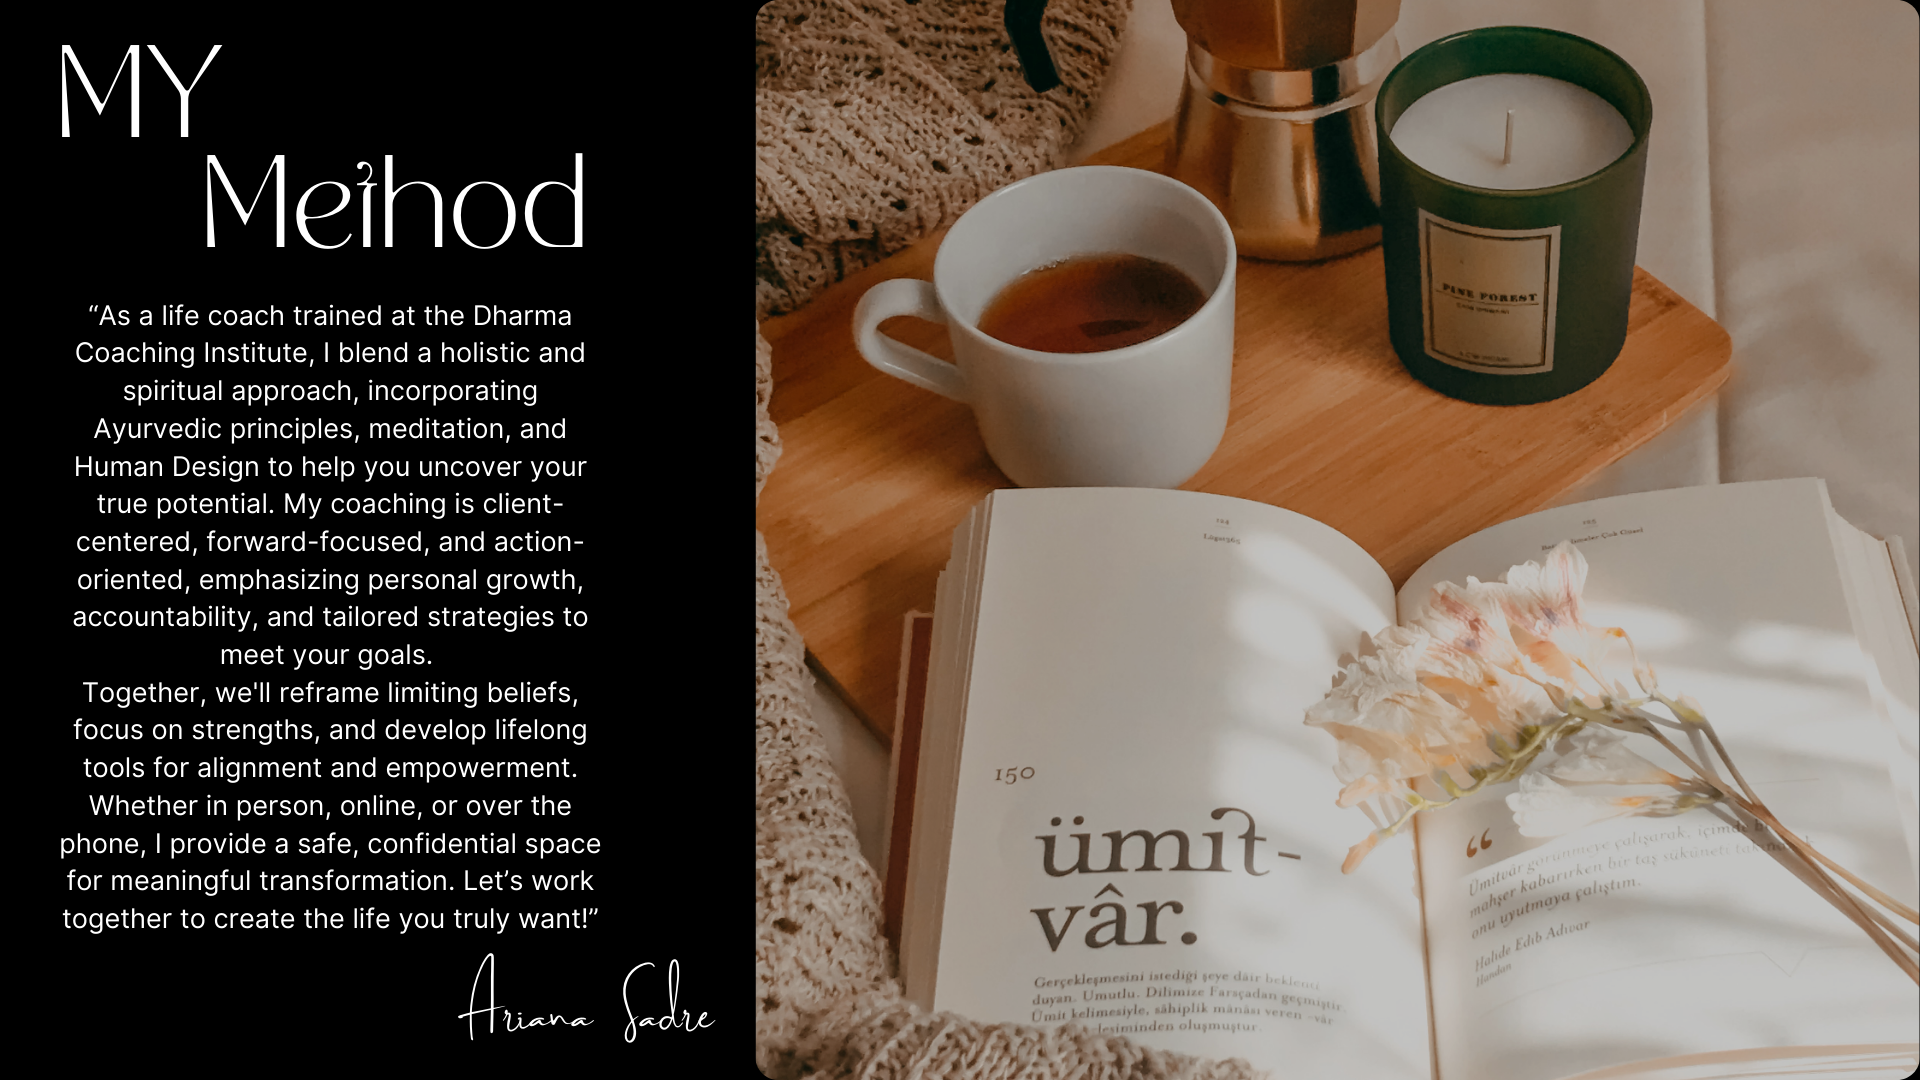
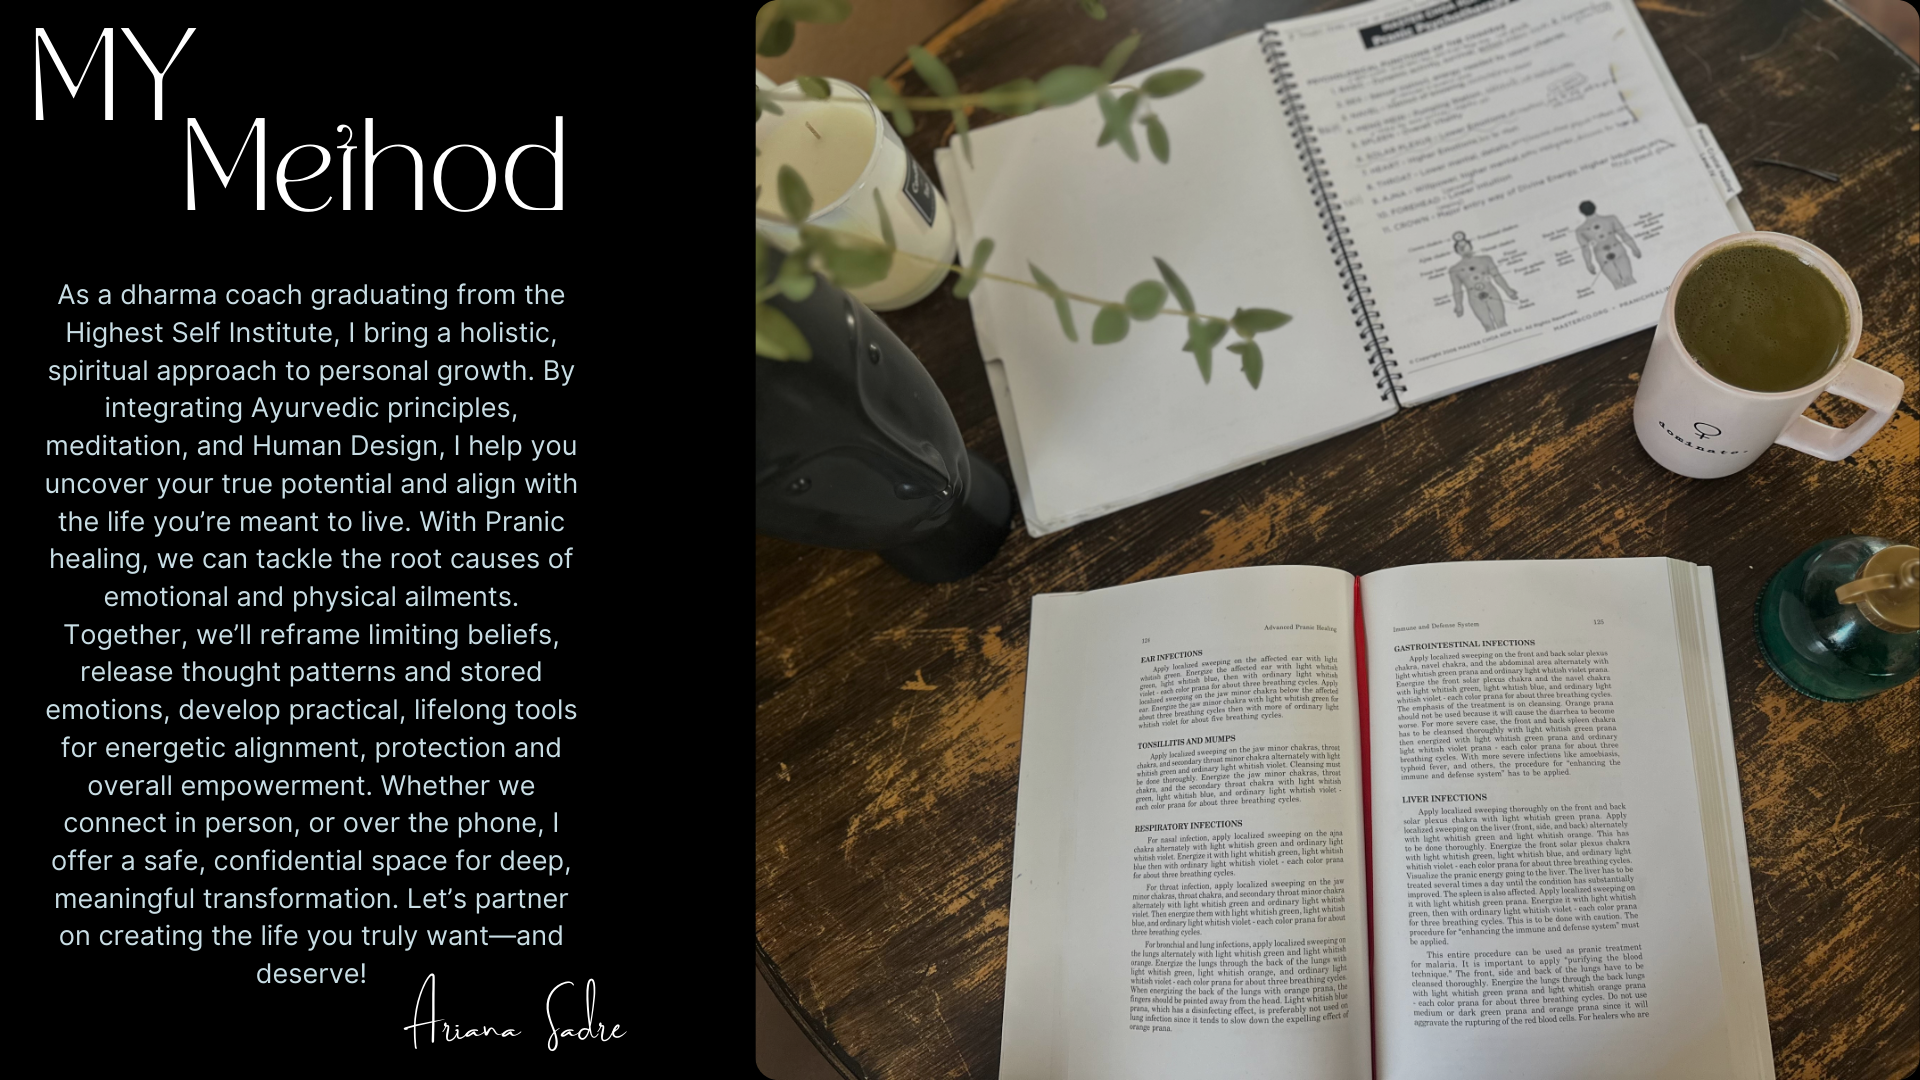
changed the ui final changes

diff --git a/src/app/page.tsx b/src/app/page.tsx
@@ -106,7 +106,7 @@ import { useRouter } from 'next/navigation';
 export default function Home() {
   const router = useRouter();
   return (
-    <div className="overflow-x-hidden bg-[#dbdf9d]"
+    <div className="overflow-x-hidden bg-white"
     // style={{
     //   background: "linear-gradient(180deg, var(--black), var(--slate-900))",
     // }}
@@ -118,80 +118,48 @@ export default function Home() {
 
         <div 
         
-          className="flex justify-center lg:justify-between"
-          style={{
-            background: "linear-gradient(180deg, var(--black), var(--slate-900))",
-          }}
+          className="flex justify-center lg:justify-center bg-black"
+          // style={{
+          //   background: "linear-gradient(180deg, var(--black), var(--slate-900))",
+          // }}
           
         >
-          <div className="lg:ml-20 flex justify-center">
-              <img src='/images/logoAriana.avif' className="w-[6rem] py-2" alt='logo'/>
-            </div>
+       
           
           <div className="navbar-center hidden playfair-display-regular text-slate-100 mt-8 lg:flex">
-            <ul className="menu menu-horizontal flex mr-10 text-lg font-extralight px-1">
+            <ul className="menu menu-horizontal flex gap-10 text-lg font-extralight px-1">
               <li><a href="#about" 
               // onClick={() => navigateTo('about')} 
-              className="block py-2 px-4 hover:rounded-sm hover:duration-100 hover:bg-slate-900">About me</a></li>
+              className="block py-2 px-4 hover:rounded-sm hover:duration-100 font-sans hover:bg-slate-900">About Ariana</a></li>
               <li><a href="#services" 
               // onClick={() => navigateTo('services')} 
-              className="block py-2 px-4 hover:rounded-sm hover:duration-100 hover:bg-slate-900">Services</a></li>
+              className="block py-2 px-4 hover:rounded-sm hover:duration-100 font-sans hover:bg-slate-900">My Method</a></li>
+                
+         
+            </ul>
+            
+          </div>
+          <div className="flex mx-10 justify-center">
+              <img src='/images/logoAriana.avif' className="w-[8rem] " alt='logo'/>
+            </div>
+            <div className="navbar-center hidden playfair-display-regular text-slate-100 mt-8 lg:flex">
+            <ul className="menu menu-horizontal flex gap-10 text-lg font-extralight px-1">
+              
                 <li><a href="#lifecoaching" 
               // onClick={() => navigateTo('services')} 
-              className="block py-2 px-4 hover:rounded-sm hover:duration-100 hover:bg-slate-900">Life Coaching</a></li>
-              <li><a href="#testimonials" 
-              // onClick={() => navigateTo('testimonials')} 
-              className="block py-2 px-4 hover:rounded-sm hover:duration-100 hover:bg-slate-900">Testimonials</a></li>
+              className="block py-2 px-4 hover:rounded-sm hover:duration-100 font-sans hover:bg-slate-900">Offerings</a></li>
+
               <li><a 
                 href="https://mail.google.com/mail/?view=cm&fs=1&to=arianasadre@gmail.com"
                 target="_blank"
                 rel="noopener noreferrer"
               // onClick={() => navigateTo('testimonials')} 
-              className="block py-2 px-4 hover:rounded-sm hover:duration-100 hover:bg-slate-900">Contact</a></li>
+              className="block py-2 px-4 hover:rounded-sm hover:duration-100 font-sans hover:bg-slate-900">Contact</a></li>
             </ul>
+            
           </div>
-          {/* <div className="navbar-start">
-            <button onClick={toggleMenu} className="btn btn-ghost lg:hidden">
-              <svg
-                xmlns="http://www.w3.org/2000/svg"
-                className="h-6 w-6 text-white"
-                fill="none"
-                viewBox="0 0 24 24"
-                stroke="currentColor"
-              >
-                <path
-                  strokeLinecap="round"
-                  strokeLinejoin="round"
-                  strokeWidth="2"
-                  d="M4 6h16M4 12h16M4 18h16"
-                />
-              </svg>
-            </button>
-           
-          </div> */}
-   
- 
-     {/* <div className="navbar-end hidden lg:flex mr-10">
-            <a href="mailto:uditi013@gmail.com" onClick={handleContactClick} className="btn border-0 text-white font-serif font-extralight">Contact me</a>
-          </div> */}
         </div>
 
-        {/* Fullscreen Slider Menu */}
-        {/* <div className={`fixed top-0 right-0 h-full w-full transform ${isMenuOpen ? 'translate-x-0' : 'translate-x-full'} transition-transform duration-300 ease-in-out z-50`}>
-          <div className="flex justify-end p-4">
-            <button onClick={toggleMenu} className="text-black text-3xl">
-              &times;
-            </button>
-          </div>
-          <ul className="flex flex-col items-center justify-center h-full font-serif text-black text-2xl">
-            <li className="my-4"><a href="#about" onClick={() => navigateTo('about')} className="block py-2">About me</a></li>
-            <li className="my-4"><a href="#services" onClick={() => navigateTo('services')} className="block py-2">Services</a></li>
-            <li className="my-4"><a href="#testimonials" onClick={() => navigateTo('testimonials')} className="block py-2">Testimonials</a></li>
-          </ul>
-        </div> */}
-        {/* <div className="bg-[#dbe47c] flex  justify-center md:hidden">
-              <img src='logo.png' className='w-[12rem] pb-6' alt='logo'/>
-            </div> */}
         {/* HERO SECTION STARTS FROM HERE!! */}
         <div className="container mx-auto flex mt-10 flex-wrap md:flex-nowrap pl-10 pr-10  justify-center ">
           <div className='pt-1 lg:pt-20 lg:pr-[10rem] lg:flex-col justify-center'>
@@ -199,10 +167,10 @@ export default function Home() {
             <div 
               className='playfair-display-regular text-black mr-10 font-medium text-5xl leading-30 xl:text-6xl mb-4 '
             >
-              Ready to <span className=' text-green-600 rounded-top-xl'>Unlock</span><br/> Your True Potential?
+              Ready to <span className=' text-[#abb23d] rounded-top-xl'>Unlock</span><br/> Your True Potential?
             </div>
             <div 
-              className=' lg:w-[65vh] my-3 hidden md:flex pr-10 md:pr-0 text-sm lg:text-xl playfair-display-regular text-gray-700'
+              className=' lg:w-[65vh] my-3 hidden md:flex pr-10 md:pr-0 text-sm lg:text-lg font-sans text-gray-700'
             >
             &quot; Spiritual alignment through prana healing & coaching, human design enthusiast, and into all things mystical &quot;
             </div>
@@ -211,7 +179,7 @@ export default function Home() {
               <div className="flex flex-col justify-end"> 
             <a 
             href="#services" 
-            // onClick={() => navigateTo('newsletter')} 
+       
             
             className=" mt-5 md:mt-0 bg-black rounded-md font-normal text-sm lg:text-lg px-10 text-white playfair-display-regular py-4 cursor-pointer ease-in hover:bg-gray-900 "
             style={{
@@ -224,28 +192,20 @@ export default function Home() {
         
           </a></div>
             <div> <img src='/images/arrow.png' className="w-[4rem] hidden md:flex pb-6" alt='arrow'/></div>
-            {/* <div 
-              className='rubik-wet-paint-regular text-sm lg:text-md italic mb-2 '
-            >
-              ~ Ariana Sadre
-              
-            </div> */}
+            
             </div>
            
           
           </div>
-          {/* <picture> */}
+       
           <div className='w-[77vh]'>
             <img src='/images/Ariana.avif' className="rounded-full mt-5 lg:mt-0" alt='hero'/>
               
           </div>
-          {/* </picture> */}
+       
         </div>
       </div>
-      {/* <div className="rounded-md flex flex-col antialiased bg-white dark:bg-black dark:bg-grid-white/[0.05] items-center justify-center relative overflow-hidden">
-        <InfiniteMovingCards items={item} direction="right"
-        speed="slow"/>
-      </div> */}
+
 
       {/* ABOUT ME */}
       <div id="about">
@@ -257,7 +217,7 @@ export default function Home() {
       <ContainerScroll
         titleComponent={
           <>
-            <h1 className="text-lg lg:text-3xl font-serif font-medium text-gray-700 dark:text-white">
+            <h1 className="text-lg lg:text-3xl font-serif font-medium text-[#abb23d] ">
             Life coaching vs Therapy <br />
               <span className="text-4xl md:text-[6rem] text-black font-bold mt-1 leading-none">
               Holistic Approach Life Coaching 
@@ -326,6 +286,7 @@ export default function Home() {
         <div className="font-bold text-md sm:text-lg font-serif">~ Annie</div>
       </div>
     </div>
+    
     {/* <div className="border rounded-md shadow-lg bg-green-950 text-md font-serif p-8 sm:p-10"
      style={{
       background: "linear-gradient(180deg, var(--black), var(--slate-900))",
@@ -342,11 +303,27 @@ export default function Home() {
       </div>
     </div> */}
   </div>
+  <div className="flex justify-center pb-20 px-8 sm:px-20 lg:px-60"> <div className="border w-[40rem] rounded-md shadow-lg bg-green-950 text-lg text-gray-200 playfair-display-regular p-8 sm:p-10"
+     style={{
+      background: "linear-gradient(180deg, var(--black), var(--slate-900))",
+    }}
+    >
+      <div className="flex items-center mb-2">
+        <span className="text-yellow-400 text-xl">★★★★★</span>
+      </div>
+      <div>
+        “Honestly I've had several people just randomly at the bar not anyone I knew comment on my energy. It was just all very positive comments on how I was presenting myself energetically. I think there's definitely been so much healing and improvement. 
+        I do feel that personally as well. It's just cool now to have outside unbiased eyes commenting on it. You know kind of like confirmation on what I'm feeling internally is actually like. They don't even know what's happening, but they're commenting on it as well so that was really super cool. I continue to feel lighter and. My attachment loosening for sure on my ex.”
+      </div>
+      <div className="flex justify-end mt-4">
+        <div className="font-bold text-md sm:text-lg font-serif">~ Joy</div>
+      </div>
+    </div></div>
 </div>
 
 {/* BLOG */}
 <div className="flex flex-col-reverse lg:flex-row flex-wrap lg:flex-nowrap gap-4 justify-between mx-10 lg:mx-40 mb-40">
-<div className="rounded overflow-hidden max-w-[40rem] bg-gray-50 pb-3 playfair-display-regular flex flex-col">
+<div className="rounded overflow-hidden max-w-[40rem] border-2 bg-lime-50 pb-3 playfair-display-regular flex flex-col">
                                         <div className="relative">
                                             <img className="w-full" src="images/blog.jpg" alt="services" />
                                             <div className="hover:bg-transparent transition duration-300 absolute bottom-0 top-0 right-0 left-0 bg-gray-900 opacity-25"></div>
@@ -375,7 +352,46 @@ export default function Home() {
   </div>
 
 </div>
+{/* <div>
+        <img className="bg-contain" src="images/image.jpeg" alt="image"/>
+        
+        </div> */}
 
+           
+      <div className="relative bg-gray-900 playfair-dispair-regular text-white">
+  {/* Heading Section */}
+  <div className="absolute inset-0 flex flex-col justify-center items-center bg-black bg-opacity-50 p-6 text-center">
+    <div className="text-7xl playfair-display-regular text-white mb-2">Still here?</div>
+  <div 
+              className='playfair-display-regular text-slate-300 mr-10 text-xl lg:text-3xl leading-30  mb-4 '
+            >
+            Don’t wait—book your appointment and start your journey to healing!
+            </div>
+    <a 
+            href="#services" 
+       
+            
+            className=" mt-5 md:mt-0 bg-black rounded-md font-normal text-sm lg:text-lg px-10 text-white playfair-display-regular py-4 cursor-pointer ease-in hover:bg-gray-900 "
+            style={{
+              background:
+                "linear-gradient(180deg, var(--black), var(--slate-900) ",
+            }}
+            > 
+          Explore Services
+
+        
+          </a>
+  </div>
+
+  {/* Image Section */}
+  <div>
+    <img
+      src="images/image.jpeg"
+      className="w-full h-[400px] lg:h-[600px] object-cover"
+      alt="Ariana's Services"
+    />
+  </div>
+</div>
 
       {/* FOOTER */}
 

diff --git a/src/components/ui/about.tsx b/src/components/ui/about.tsx
@@ -6,11 +6,11 @@ const About: React.FC = () => {
  
 
   return (
-    <div className="pt-40  bg-green-950 pb-10 mt-40 overflow-x-hidden pl-5 pr-5 lg:px-40 justify-center font-serif"
-    style={{
-        background:
-          "linear-gradient(120deg, var(--black), var(--slate-900) ",
-      }}
+    <div className="pt-40   pb-10 mt-40 overflow-x-hidden pl-5 pr-5 lg:px-40 justify-center font-serif"
+    // style={{
+    //     background:
+    //       "linear-gradient(120deg, var(--black), var(--slate-900) ",
+    //   }}
 
       
     >
@@ -26,34 +26,23 @@ const About: React.FC = () => {
           alt="Ariana"
         />
         <div className="flex flex-col justify-around p-4 leading-normal">
-          <h5 className="lg:mb-2 text-3xl text-center lg:text-5xl font-medium playfair-display-regular tracking-tight text-gray-100 dark:text-white">
+          <h5 className="lg:mb-2 text-black text-3xl text-center lg:text-5xl font-medium playfair-display-regular tracking-tight ">
           
-          Spiritual alignment & Pranic healing
+          Spiritual Alignment through Pranic Healing
           </h5>
-          <p className="pb-5 italic mt-10 text-md font-serif lg:text-lg text-gray-400">
-           ~ I am a natural networker,
-
-a true empath
-
-&
-
- particularly perceptive. <br/>
-
- 
-
- 
-
-I pride myself in being  authentic in my connections. My purpose is to help you grow + feel empowered.
-
-I am here to help raise collective consciousness + awareness.
+          <p className="pb-5 italic mt-10 text-md font-serif lg:text-lg text-[#abb23d]">
+           ~ I am a natural networker, a true empath & particularly perceptive. I pride myself in being authentic in my connections. My purpose is to help you heal, grow + feel empowered. I am here to assist in raising collective consciousness + compassion.
           </p>
-          <p className="mb-3 font-extralight font-sans pb-10 flex text-sm lg:text-lg leading-tight  [word-spacing:2px] text-slate-200">
-          Born and raised in San Diego to a Persian father and Mexican-American mother, I grew up embracing diverse cultures and perspectives. My journey began in hospitality, where I helped open five restaurants and earned a degree in Hotel Management from SDSU. After working at the W Hotel Times Square, I co-founded RoseWater Cocktail Co. and later became the operating partner of Botanica, blending art and community through food and cocktails.
+          <p className="mb-3  text-slate-700 font-sans pb-10 flex text-sm lg:text-lg leading-tight [word-spacing:2px]">
+  Hi, I am Ariana. With 16+ years of experience in hospitality, I have learned how to navigate challenges, connect with people from all walks of life, and create systems that bring ease and flow to even the most chaotic of times. Along the way, I discovered my passion for another type of service, helping others heal and grow, which led me to become a Certified Pranic Healer and spiritual coach.
 
-Driven by a lifelong passion for helping others, I earned my Coaching Certificate from the Dharma Coaching Institute to empower individuals on their life journeys. I value honesty, growth, and making meaningful connections. In my spare time, I enjoy cooking, yoga, traveling, and spending time with loved ones.
-          </p>
+  Through energy work, Human Design, tarot, and holistic practices, I help guide others through life&rsquo;s tough moments&mdash;whether it is navigating big emotions, finding clarity in the chaos, or rediscovering your inner strength. I believe healing is deeply personal, but it does not have to be lonely. I am here to walk alongside you and help you align with the life you are meant to live.
+
+  Looking forward to connecting with you.
+</p>
+
           <div className="flex justify-end">
-            <img src="images/sign.png" className="w-[18rem]" alt="sign"/>
+            <img src="images/sign-2.png" className="w-[18rem]" alt="sign"/>
           </div>
      
         </div>
